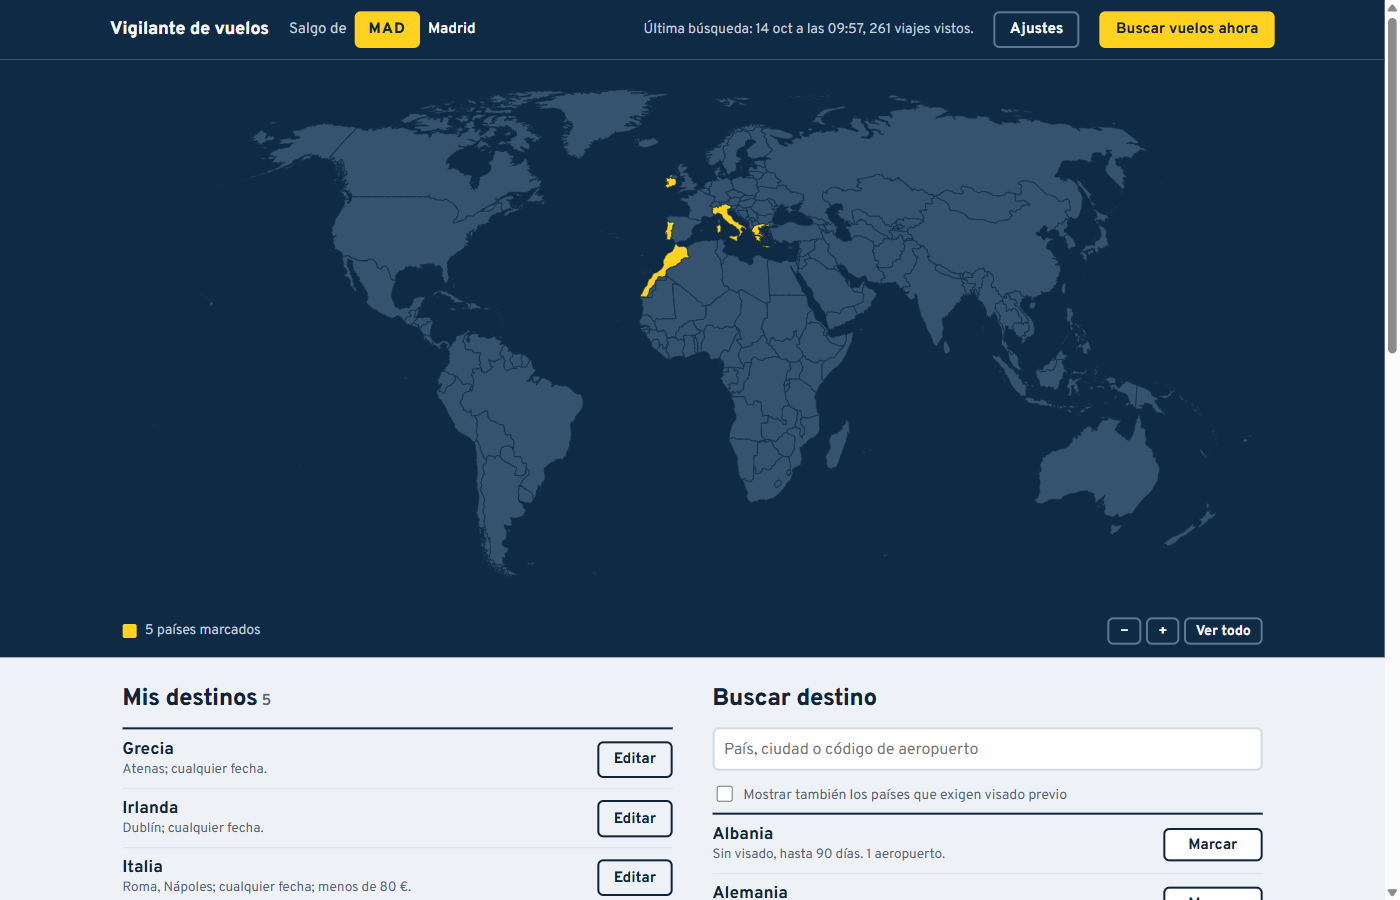
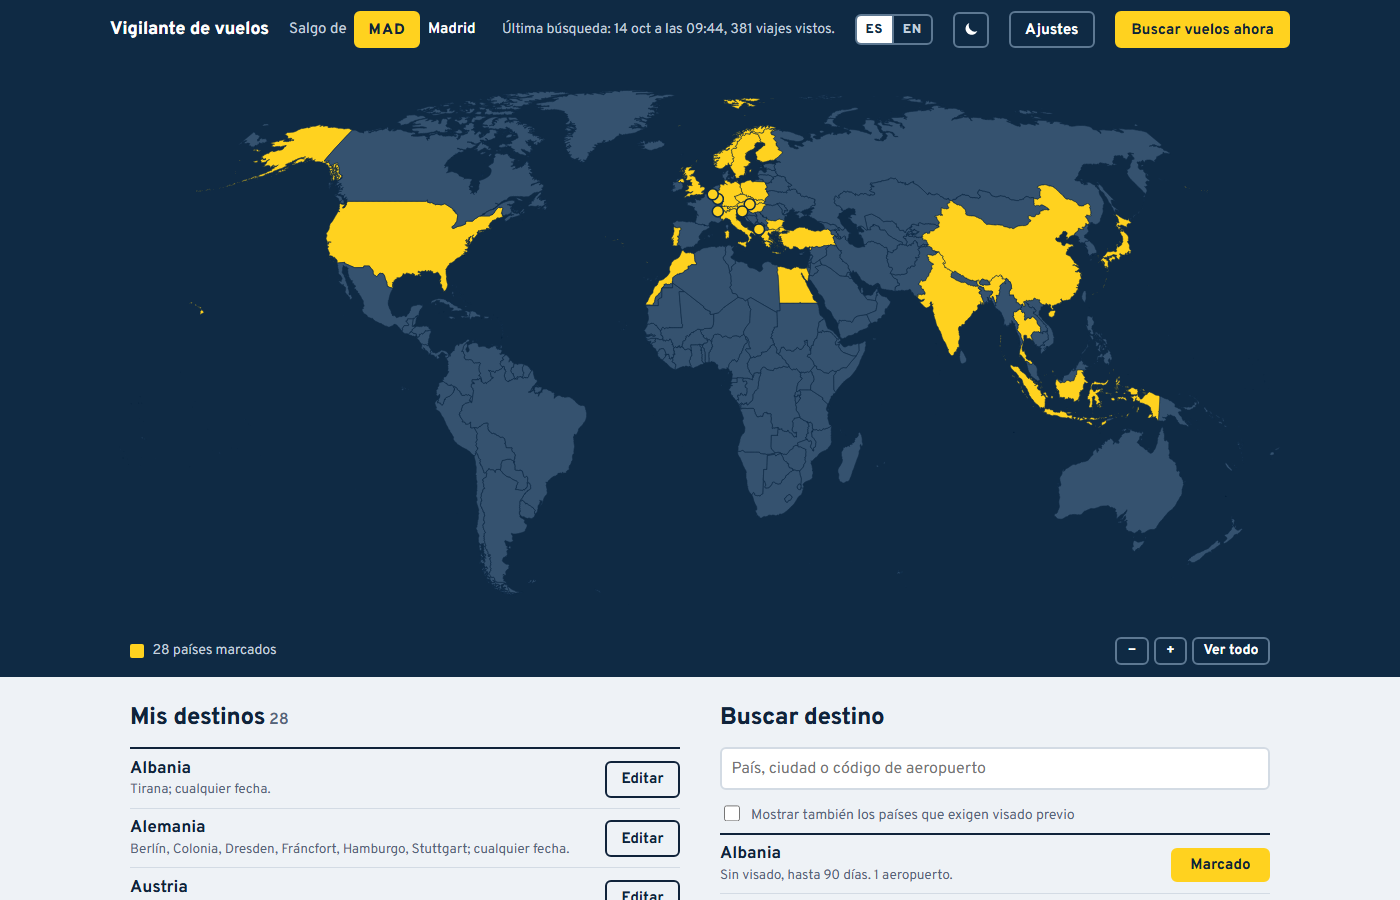
docs: refresh README screenshots for the new panel

diff --git a/README.md b/README.md
@@ -24,7 +24,9 @@ The panel can be switched between Spanish and English; the alerts and the code c
 - **Entry requirements:** each country shows the entry requirement for a Spanish passport; countries that need a visa in advance are hidden unless you ask for them.
 - **Runs unattended:** a Windows scheduled task fires hourly from 08:00, but only the first successful run of the day queries prices, so it still works if the PC was off in the morning.
 
-![Cheapest trips, with saved destinations listed first](docs/screenshots/recommendations.png)
+![Cheap trips: month tabs, filters and every saved city with its cheapest flight](docs/screenshots/recommendations.png)
+
+![The same list in English with the dark theme](docs/screenshots/recommendations-dark-en.png)
 
 ## Tech stack
 
